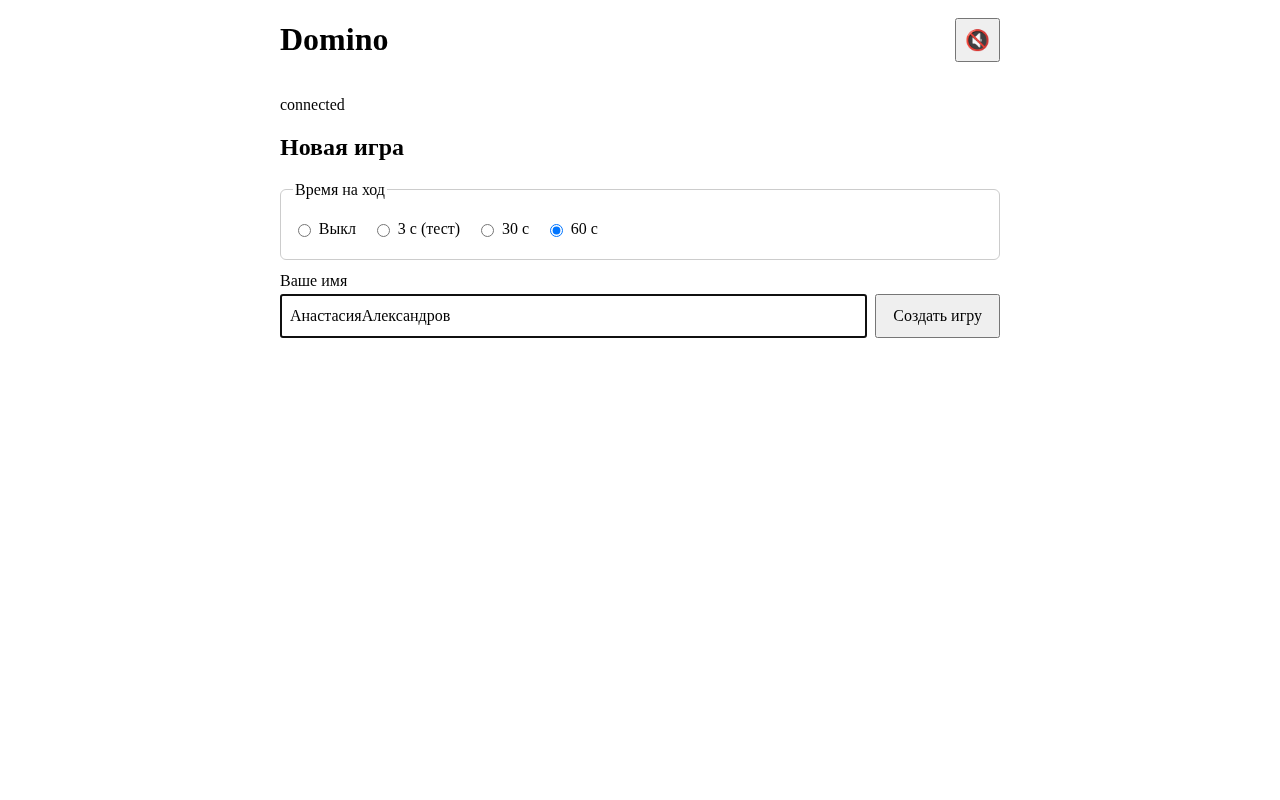
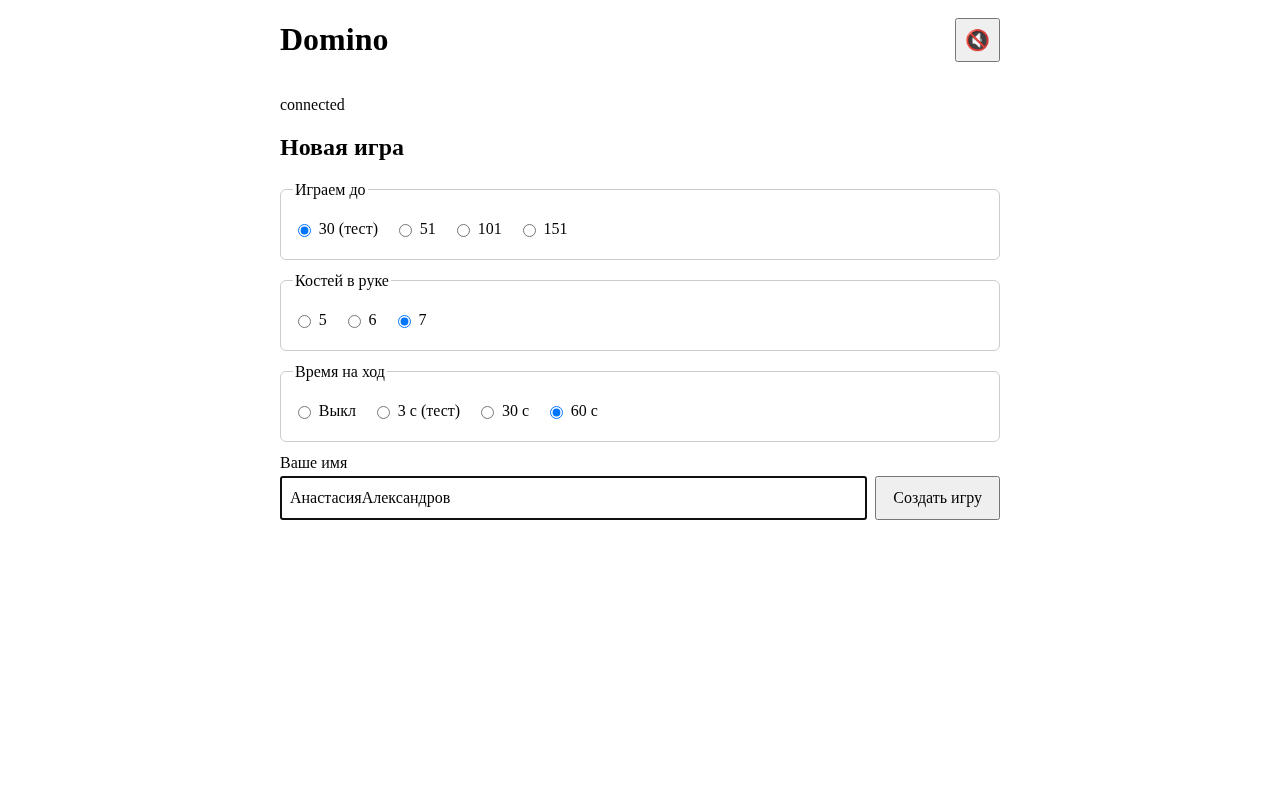
README и docs/screens: выбор цели матча и размера руки, room:info, MATCH_TARGET как значение по умолчанию (spec-14)

diff --git a/README.md b/README.md
@@ -18,20 +18,20 @@ npm run dev
 
 ## Как сыграть с другом
 
-1. Откройте <http://localhost:5173>, выберите «Время на ход» (Выкл / 30 с / 60 с, по умолчанию 60 с; выбор запоминается в `localStorage['domino:turnSeconds']`), введите имя и нажмите «Создать игру».
+1. Откройте <http://localhost:5173>, выберите «Играем до» (51 / 101 / 151 очко, по умолчанию 101), «Костей в руке» (5 / 6 / 7, по умолчанию 7; базар = 28 − 2 × рука) и «Время на ход» (Выкл / 30 с / 60 с, по умолчанию 60 с; выбор запоминается в `localStorage` — `domino:matchTarget`, `domino:handSize`, `domino:turnSeconds`), введите имя и нажмите «Создать игру».
 2. На экране «Ожидаем соперника…» нажмите «Скопировать» и отправьте ссылку вида `http://localhost:5173/?room=ABC234` другу.
 3. Друг открывает ссылку, вводит имя и жмёт «Войти» — у обоих открывается игровой стол: цепочка в центре, своя рука снизу, рука соперника рубашкой сверху, «Базар: N» и индикатор «Ваш ход» / «Ход соперника».
 4. Ходите кликом (или тапом) по подсвеченной кости — подсвечены только те, что можно сыграть; первый ход — старшим дублем. Если кость подходит к обоим концам цепочки, появятся кнопки «◀ сюда» / «сюда ▶» — выберите конец (Esc или повторный клик отменяют выбор).
 5. Нет хода костью — активна «Взять из базара» (ход остаётся за вами, можно добирать подряд); базар пуст — «Пропустить».
 6. Когда раунд закончился, у обоих появляется экран итогов: кто выиграл и почему (домино / рыба / ничья), обе руки лицом с суммами очков и начисленные очки. Над столом всё время видно табло матча «Аня 34 : 12 Боб · до 101 · Раунд 3».
-7. Матч идёт до 101 очка: нажмите «Следующий раунд» — новый раунд начнётся, когда нажмут оба (у нажавшего — «Ждём соперника…», у другого — «Соперник готов»). Когда у кого-то ≥ 101, показывается победитель матча и кнопка «Реванш» — новый матч 0 : 0 в той же комнате. Для быстрой проверки конца матча запустите `MATCH_TARGET=20 npm run dev`.
+7. Матч идёт до выбранной цели (по умолчанию 101 очко); настройки комнаты не меняются до её закрытия — ни на следующий раунд, ни на реванш. Второй игрок видит их на экране приглашения ещё до «Войти» («Матч до 51 · 5 костей в руке · ход 60 с»), оба — на табло («до 51», при руке ≠ 7 — «по 5 костей»). Дальше: нажмите «Следующий раунд» — новый раунд начнётся, когда нажмут оба (у нажавшего — «Ждём соперника…», у другого — «Соперник готов»). Когда у кого-то ≥ цели, показывается победитель матча и кнопка «Реванш» — новый матч 0 : 0 в той же комнате. Для быстрой проверки конца матча запустите `MATCH_TARGET=20 npm run dev` — значение 20 появится среди вариантов («20 (тест)») и будет выбрано по умолчанию.
 8. Обрыв связи, F5 или даже закрытая вкладка не выкидывают из партии: место держится за **браузером** — токен лежит в `localStorage` (`domino:sessions`, по коду комнаты). Откройте ту же ссылку-приглашение в том же браузере — вернётесь на своё место с той же рукой, столом, счётом и очередью хода, а не войдёте «третьим игроком». При обрыве сокета клиент переподключается сам и показывает плашку «Переподключение…».
 9. Пока соперник отключён, у вас плашка «Соперник отключился, ждём… mm:ss» с обратным отсчётом. Если он не вернулся за `RECONNECT_TIMEOUT` (по умолчанию 2 минуты), ему засчитывается техническое поражение в матче, а у вас — экран «Победа! Соперник не вернулся в игру» и кнопка «На главную». Для быстрой проверки: `RECONNECT_TIMEOUT=15000 npm run dev`.
 10. Стол «живой»: сыгранная кость прилетает из руки (своей или соперника) на свой конец цепочки, добранная — вылетает из «Базар: N»; звучат стук кости, добор, сигнал «Ваш ход» (только когда ход перешёл к вам) и конец раунда. Кнопка 🔊/🔇 справа от заголовка включает/выключает звук, выбор запоминается (`localStorage['domino:sound']`). Звук по умолчанию включён, но браузеры разрешают его только после первого клика/нажатия клавиши на странице. При `prefers-reduced-motion: reduce` (настройки ОС или DevTools → Rendering) анимации не проигрываются, стол обновляется мгновенно; принудительно выключить анимации — `?fx=off` в адресе.
 11. Таймер хода: у игрока, чей ход, идёт обратный отсчёт `mm:ss` (последние 10 с — красным и с пульсацией), в табло — «· ход 60 с». Время вышло — сервер ходит сам: самой тяжёлой подходящей костью; нечем — добирает из базара до подходящей кости и играет её; базар пуст — пропуск. Добор время не продлевает, смена хода запускает таймер соперника заново. Пока кто-то из игроков отключён, таймер стоит (`⏸ mm:ss`) и после возвращения продолжается с остатка. «Выкл» — таймера нет. Настройка действует до конца жизни комнаты (включая следующие раунды и реванш); второй игрок принимает её как есть.
 12. Реакции: кнопка 💬 рядом с «Взять из базара»/«Пропустить» (на экране итогов — под итогами) открывает панель с фиксированным набором — 👍 😂 😮 😡 🎉 и фразы «Ну ты даёшь», «Рыба!», «Ходи уже», «Хорошая игра». Выбранная реакция ~3 с видна «облачком» у обоих: у соперника — под рубашками его руки, у себя — над своей рукой. Не чаще одной реакции в 2 с (кнопки на это время неактивны); свободного текста нет — сервер принимает только id из набора.
 
-Ссылка с `localhost` работает только на этой машине. Проверить «на себе» можно в **двух разных браузерах** или в обычном окне + окне инкогнито: вкладки одного браузера — это один и тот же игрок (вторая вкладка заберёт место, первая покажет «Игра открыта в другой вкладке»). Для игры по сети откройте клиент по IP/имени хоста, доступному другу (например, `npm run dev -w @domino/client -- --host` и `http://<ваш-IP>:5173`), — ссылка строится из текущего адреса страницы. В проде (см. «Деплой») ссылка-приглашение строится от `PUBLIC_URL` сервера, например `https://domino-testdenis.fly.dev/?room=ABC234`. Спеки: лобби — [`docs/specs/spec-5.md`](docs/specs/spec-5.md), игровой стол — [`docs/specs/spec-6.md`](docs/specs/spec-6.md), итоги раунда и матч — [`docs/specs/spec-7.md`](docs/specs/spec-7.md), деплой — [`docs/specs/spec-8.md`](docs/specs/spec-8.md), переподключение — [`docs/specs/spec-9.md`](docs/specs/spec-9.md), звуки и анимации — [`docs/specs/spec-10.md`](docs/specs/spec-10.md), таймер хода — [`docs/specs/spec-11.md`](docs/specs/spec-11.md), реакции — [`docs/specs/spec-12.md`](docs/specs/spec-12.md), полировка UI и мобильная вёрстка — [`docs/specs/spec-13.md`](docs/specs/spec-13.md).
+Ссылка с `localhost` работает только на этой машине. Проверить «на себе» можно в **двух разных браузерах** или в обычном окне + окне инкогнито: вкладки одного браузера — это один и тот же игрок (вторая вкладка заберёт место, первая покажет «Игра открыта в другой вкладке»). Для игры по сети откройте клиент по IP/имени хоста, доступному другу (например, `npm run dev -w @domino/client -- --host` и `http://<ваш-IP>:5173`), — ссылка строится из текущего адреса страницы. В проде (см. «Деплой») ссылка-приглашение строится от `PUBLIC_URL` сервера, например `https://domino-testdenis.fly.dev/?room=ABC234`. Спеки: лобби — [`docs/specs/spec-5.md`](docs/specs/spec-5.md), игровой стол — [`docs/specs/spec-6.md`](docs/specs/spec-6.md), итоги раунда и матч — [`docs/specs/spec-7.md`](docs/specs/spec-7.md), деплой — [`docs/specs/spec-8.md`](docs/specs/spec-8.md), переподключение — [`docs/specs/spec-9.md`](docs/specs/spec-9.md), звуки и анимации — [`docs/specs/spec-10.md`](docs/specs/spec-10.md), таймер хода — [`docs/specs/spec-11.md`](docs/specs/spec-11.md), реакции — [`docs/specs/spec-12.md`](docs/specs/spec-12.md), полировка UI и мобильная вёрстка — [`docs/specs/spec-13.md`](docs/specs/spec-13.md), настройки комнаты (цель матча, размер руки) — [`docs/specs/spec-14.md`](docs/specs/spec-14.md).
 
 ## Команды
 
@@ -66,7 +66,7 @@ npx playwright install chromium
 - `server/` (`@domino/server`) — HTTP + Socket.IO сервер; проверяет каждое действие игрока.
 - `client/` (`@domino/client`) — React-приложение; только отображает состояние и отправляет намерения. Лобби (экраны, ссылка-приглашение, авто-возврат в комнату) — `client/src/lobby`; игровой стол — `client/src/game` (подсветка и кнопки берутся только из `legalMoves`, которые прислал сервер); анимации — `client/src/fx` (события стола выводятся из разницы двух `room:state`, полёты — Web Animations API); звук — `client/src/sound` (Web Audio, кнопка 🔊/🔇); реакции — `client/src/reactions` (панель 💬 и облачки; набор — только `shared/src/reactions.ts`).
 - `Dockerfile`, `.dockerignore`, `fly.toml` — production-образ и конфиг Fly.io; раздачу статики делает `server/src/static.ts`, env читает `server/src/config.ts`.
-- `e2e/` — сценарии Playwright (`connect.spec.ts` — E1–E2, `lobby.spec.ts` — E3–E7: два игрока встречаются в одной комнате, `game.spec.ts` — E8–E11: игроки делают ходы, мобильная ширина, F5, `match.spec.ts` — E12–E15: раунд до конца, итоги, следующий раунд, `reconnect.spec.ts` — X16–X19: возврат после закрытия браузера, победа по таймауту, повторное открытие ссылки, обрыв сети, `fx.spec.ts` — E16–E18: кнопка звука на 360 px, ходы с анимациями, нет ошибок автоплея, `turn-timer.spec.ts` — E19–E22: таймер хода, `reactions.spec.ts` — E23–E26: A отправляет реакцию — B её видит, фраза, анти-спам, 360 px, `layout.spec.ts` — E27–E32: вёрстка на 360/390/768/1280 px (нет горизонтального скролла, кнопки ≥ 44 px, переносы длинных имён и цепочки), облачко соперника не закрывает стол, без связи нет подсветки «Ваш ход»; `screens.spec.ts` — S1: скриншоты для `npm run screens`, в основной прогон не входит; общие хелперы — `helpers.ts`, в т.ч. `checkLayout`). Каждый игрок — отдельный контекст браузера (`newPlayer`), т.к. место держится за `localStorage`.
+- `e2e/` — сценарии Playwright (`connect.spec.ts` — E1–E2, `lobby.spec.ts` — E3–E7: два игрока встречаются в одной комнате, `game.spec.ts` — E8–E11: игроки делают ходы, мобильная ширина, F5, `match.spec.ts` — E12–E15: раунд до конца, итоги, следующий раунд, `reconnect.spec.ts` — X16–X19: возврат после закрытия браузера, победа по таймауту, повторное открытие ссылки, обрыв сети, `fx.spec.ts` — E16–E18: кнопка звука на 360 px, ходы с анимациями, нет ошибок автоплея, `turn-timer.spec.ts` — E19–E22: таймер хода, `reactions.spec.ts` — E23–E26: A отправляет реакцию — B её видит, фраза, анти-спам, 360 px, `layout.spec.ts` — E27–E32: вёрстка на 360/390/768/1280 px (нет горизонтального скролла, кнопки ≥ 44 px, переносы длинных имён и цепочки), облачко соперника не закрывает стол, без связи нет подсветки «Ваш ход», `settings.spec.ts` — E-S1–E-S4: настройки комнаты (цель 51 видна до входа и на табло, рука 5 и базар 18, значения по умолчанию, мёртвая ссылка); `screens.spec.ts` — S1: скриншоты для `npm run screens`, в основной прогон не входит; общие хелперы — `helpers.ts`, в т.ч. `checkLayout`). Каждый игрок — отдельный контекст браузера (`newPlayer`), т.к. место держится за `localStorage`.
 
 Сервер — источник истины. Контракт событий Socket.IO описан в одном месте — `shared/src/protocol.ts` — и типизирует обе стороны: переименование события ломает `typecheck` и на сервере, и на клиенте.
 
@@ -78,6 +78,7 @@ npx playwright install chromium
 import { startRound, getLegalMoves, applyMove, toPlayerView } from '@domino/shared';
 
 let state = startRound({ seed: 42 }); // перемешивание mulberry32 + Fisher–Yates, раздача 7/7/14
+// startRound({ seed: 42, handSize: 5 }) — раздача 5/5/18 (spec-14: handSize ∈ 5 / 6 / 7)
 const [move] = getLegalMoves(state); // первый ход — всегда старший дубль
 const result = applyMove(state, state.currentPlayer, move!); // { ok: true, state } | { ok: false, error }
 if (result.ok) state = result.state;
@@ -88,25 +89,26 @@ toPlayerView(state, 0); // то, что можно показать игроку
 
 ## Протокол комнат
 
-Сервер держит в памяти комнаты на двоих: в каждой — матч до `MATCH_TARGET` очков и текущий раунд ([`spec-7`](docs/specs/spec-7.md)). Типы событий — `shared/src/protocol.ts`, спека: [`docs/specs/spec-4.md`](docs/specs/spec-4.md). Ошибки приходят только в ack: `{ ok: false, error }`.
+Сервер держит в памяти комнаты на двоих: в каждой — настройки (цель матча, размер руки, время на ход — [`spec-14`](docs/specs/spec-14.md)), матч и текущий раунд ([`spec-7`](docs/specs/spec-7.md)). Типы событий — `shared/src/protocol.ts`, спека: [`docs/specs/spec-4.md`](docs/specs/spec-4.md). Ошибки приходят только в ack: `{ ok: false, error }`.
 
-| Событие         | Направление | Payload                       | Ответ / смысл                                                                                                                                                                                                                                                                                                                                                                                                  |
-| --------------- | ----------- | ----------------------------- | -------------------------------------------------------------------------------------------------------------------------------------------------------------------------------------------------------------------------------------------------------------------------------------------------------------------------------------------------------------------------------------------------------------- |
-| `room:create`   | C → S       | `{ name, turnSeconds? }`      | ack `{ ok, roomId, seat: 0, playerToken }`; комната ждёт второго игрока. `turnSeconds` — время на ход, с, из `server:hello.turnSecondsOptions` (нет — 60; иное — `INVALID_PAYLOAD`)                                                                                                                                                                                                                            |
-| `room:join`     | C → S       | `{ roomId, name }`            | ack `{ ok, roomId, seat: 1, playerToken }`; раунд стартует сразу                                                                                                                                                                                                                                                                                                                                               |
-| `room:rejoin`   | C → S       | `{ roomId, playerToken }`     | ack `{ ok, roomId, seat }`; возврат на место до `RECONNECT_TIMEOUT`. Чужой/выдуманный токен — `INVALID_TOKEN`, после техпоражения — `ROOM_NOT_FOUND`                                                                                                                                                                                                                                                           |
-| `game:move`     | C → S       | `{ move }` (`play/draw/pass`) | ack `{ ok }` или код ошибки правил (`NOT_YOUR_TURN`, `TILE_DOES_NOT_FIT`, …)                                                                                                                                                                                                                                                                                                                                   |
-| `game:ready`    | C → S       | `{}`                          | «Следующий раунд» / «Реванш»; когда готовы оба — новый раунд (матч). Ошибки: `ROUND_NOT_FINISHED`, `GAME_NOT_STARTED`, `NOT_IN_ROOM`                                                                                                                                                                                                                                                                           |
-| `room:state`    | S → C       | `RoomStatePayload`            | после каждого изменения — каждому игроку свой вид: свои кости, у соперника число (рука соперника — только после конца раунда), счёт `match`; `players[].reconnectRemainingMs` — сколько мс ещё ждём отключённого (`null` у подключённого); `match.forfeit` — место, проигравшее техпоражением (тогда `phase: 'finished'`); `turnSeconds` и `turnTimer { seat, remainingMs, paused }` (`null` — таймер не идёт) |
-| `game:react`    | C → S       | `{ reactionId }`              | реакция из фиксированного набора `REACTIONS` (`shared/src/reactions.ts`); ack `{ ok }` или `INVALID_PAYLOAD` (payload не объект), `UNKNOWN_REACTION` (id не из набора — в т.ч. эмодзи или произвольный текст), `GAME_NOT_STARTED` (ещё `waiting`), `NOT_IN_ROOM`, `TOO_FREQUENT` (чаще 1 раза в 2 с на место; переподключение кулдаун не сбрасывает)                                                           |
-| `room:reaction` | S → C       | `{ seat, reactionId, seq }`   | принятая реакция — обоим подключённым игрокам, включая отправителя; `room:state` не шлётся, отключённому не доставляется и не копится                                                                                                                                                                                                                                                                          |
-| `room:closed`   | S → C       | `{ roomId, reason }`          | `player_left` — соперник не вернулся, а победителя не назначить (комната ещё ждала второго, матч уже окончен или ушли оба); `replaced` — место заняла другая вкладка                                                                                                                                                                                                                                           |
+| Событие         | Направление | Payload                                           | Ответ / смысл                                                                                                                                                                                                                                                                                                                                                                                                  |
+| --------------- | ----------- | ------------------------------------------------- | -------------------------------------------------------------------------------------------------------------------------------------------------------------------------------------------------------------------------------------------------------------------------------------------------------------------------------------------------------------------------------------------------------------- |
+| `room:create`   | C → S       | `{ name, turnSeconds?, matchTarget?, handSize? }` | ack `{ ok, roomId, seat: 0, playerToken }`; комната ждёт второго игрока. `turnSeconds` — время на ход, с, из `server:hello.turnSecondsOptions` (нет — 60); `matchTarget` — из `server:hello.matchTargetOptions` (нет — `MATCH_TARGET` ?? 101); `handSize` — 5 / 6 / 7 (нет — 7). Значение не из списка — `INVALID_PAYLOAD`                                                                                     |
+| `room:info`     | C → S       | `{ roomId }`                                      | ack `{ ok, roomId, settings: { matchTarget, handSize, turnSeconds } }`; настройки комнаты до входа, без побочных эффектов. Ошибки: `INVALID_PAYLOAD`, `ROOM_NOT_FOUND`                                                                                                                                                                                                                                         |
+| `room:join`     | C → S       | `{ roomId, name }`                                | ack `{ ok, roomId, seat: 1, playerToken }`; раунд стартует сразу                                                                                                                                                                                                                                                                                                                                               |
+| `room:rejoin`   | C → S       | `{ roomId, playerToken }`                         | ack `{ ok, roomId, seat }`; возврат на место до `RECONNECT_TIMEOUT`. Чужой/выдуманный токен — `INVALID_TOKEN`, после техпоражения — `ROOM_NOT_FOUND`                                                                                                                                                                                                                                                           |
+| `game:move`     | C → S       | `{ move }` (`play/draw/pass`)                     | ack `{ ok }` или код ошибки правил (`NOT_YOUR_TURN`, `TILE_DOES_NOT_FIT`, …)                                                                                                                                                                                                                                                                                                                                   |
+| `game:ready`    | C → S       | `{}`                                              | «Следующий раунд» / «Реванш»; когда готовы оба — новый раунд (матч). Ошибки: `ROUND_NOT_FINISHED`, `GAME_NOT_STARTED`, `NOT_IN_ROOM`                                                                                                                                                                                                                                                                           |
+| `room:state`    | S → C       | `RoomStatePayload`                                | после каждого изменения — каждому игроку свой вид: свои кости, у соперника число (рука соперника — только после конца раунда), счёт `match`; `players[].reconnectRemainingMs` — сколько мс ещё ждём отключённого (`null` у подключённого); `match.forfeit` — место, проигравшее техпоражением (тогда `phase: 'finished'`); `turnSeconds` и `turnTimer { seat, remainingMs, paused }` (`null` — таймер не идёт) |
+| `game:react`    | C → S       | `{ reactionId }`                                  | реакция из фиксированного набора `REACTIONS` (`shared/src/reactions.ts`); ack `{ ok }` или `INVALID_PAYLOAD` (payload не объект), `UNKNOWN_REACTION` (id не из набора — в т.ч. эмодзи или произвольный текст), `GAME_NOT_STARTED` (ещё `waiting`), `NOT_IN_ROOM`, `TOO_FREQUENT` (чаще 1 раза в 2 с на место; переподключение кулдаун не сбрасывает)                                                           |
+| `room:reaction` | S → C       | `{ seat, reactionId, seq }`                       | принятая реакция — обоим подключённым игрокам, включая отправителя; `room:state` не шлётся, отключённому не доставляется и не копится                                                                                                                                                                                                                                                                          |
+| `room:closed`   | S → C       | `{ roomId, reason }`                              | `player_left` — соперник не вернулся, а победителя не назначить (комната ещё ждала второго, матч уже окончен или ушли оба); `replaced` — место заняла другая вкладка                                                                                                                                                                                                                                           |
 
 Код комнаты — 6 символов (`A–Z`, `2–9` без `I O 0 1`), регистр при входе не важен. Отключившемуся игроку место держится `RECONNECT_TIMEOUT`; если он не вернулся, а соперник в сети и матч не окончен — отключившемуся засчитывается техническое поражение (`match.forfeit`, счёт не меняется), оставшийся получает финальный `room:state`, комната удаляется; иначе — `room:closed player_left`. Сервер пингует клиентов каждые 10 с (таймаут 5 с), так что пропажа сети без закрытия сокета обнаруживается ≤ 15 с. Комнаты живут только в памяти процесса.
 
-`server:hello` (S → C) несёт `protocolVersion`, `serverTime`, `publicUrl?` и `turnSecondsOptions` (обычно `[0, 30, 60]`). Таймер хода держит сервер ([`spec-11`](docs/specs/spec-11.md)): по истечении он сам доигрывает ход (`pickAutoMove` из `shared`) и рассылает один `room:state`; отдельных «тиков» нет — клиент считает остаток сам.
+`server:hello` (S → C) несёт `protocolVersion`, `serverTime`, `publicUrl?`, `turnSecondsOptions` (обычно `[0, 30, 60]`), `matchTargetOptions` (обычно `[51, 101, 151]`), `defaultMatchTarget` и `handSizeOptions` (`[5, 6, 7]`). `room:state` во всех фазах несёт настройки комнаты `turnSeconds`, `matchTarget`, `handSize`. Таймер хода держит сервер ([`spec-11`](docs/specs/spec-11.md)): по истечении он сам доигрывает ход (`pickAutoMove` из `shared`) и рассылает один `room:state`; отдельных «тиков» нет — клиент считает остаток сам.
 
-Тесты: `npx vitest run --project server` (unit `U*`, комнаты `R*`, игра `G*`, отключения `D*`, матч `N*`, переподключение и техпоражение `X*` — `reconnect.test.ts`, таймер хода `T*` — `RoomManager.test.ts`, `turn-timer.test.ts`, реакции `RX*` — `RoomManager.test.ts`, `reactions.test.ts`).
+Тесты: `npx vitest run --project server` (unit `U*`, комнаты `R*`, игра `G*`, отключения `D*`, матч `N*`, переподключение и техпоражение `X*` — `reconnect.test.ts`, таймер хода `T*` — `RoomManager.test.ts`, `turn-timer.test.ts`, реакции `RX*` — `RoomManager.test.ts`, `reactions.test.ts`, настройки комнаты `S*`/`SI-*` — `RoomManager.test.ts`, `settings.test.ts`).
 
 ## Переменные окружения сервера
 
@@ -116,7 +118,7 @@ toPlayerView(state, 0); // то, что можно показать игроку
 | `HOST`                    | `0.0.0.0`               | интерфейс                                                                                                                     |
 | `CORS_ORIGIN`             | `http://localhost:5173` | разрешённый origin клиента                                                                                                    |
 | `RECONNECT_TIMEOUT`       | `120000`                | сколько ждать возвращения отключившегося игрока, мс (целое > 0); потом — техпоражение                                         |
-| `MATCH_TARGET`            | `101`                   | до скольких очков идёт матч (целое > 0)                                                                                       |
+| `MATCH_TARGET`            | `101`                   | цель матча по умолчанию (целое > 0); значение вне 51 / 101 / 151 добавляется в варианты выбора (для тестов)                   |
 | `PUBLIC_URL`              | —                       | база ссылок-приглашений, напр. `https://domino-testdenis.fly.dev` (http/https, без пути); не задан — клиент берёт свой origin |
 | `STATIC_DIR`              | —                       | каталог собранного клиента (в образе `/app/client/dist`); задан — сервер раздаёт клиент на своём порту                        |
 | `TURN_TIMER_TEST_SECONDS` | —                       | **только для тестов**: добавляет к выбору времени на ход короткое значение, с (целое 1…29); в проде не задаётся               |
